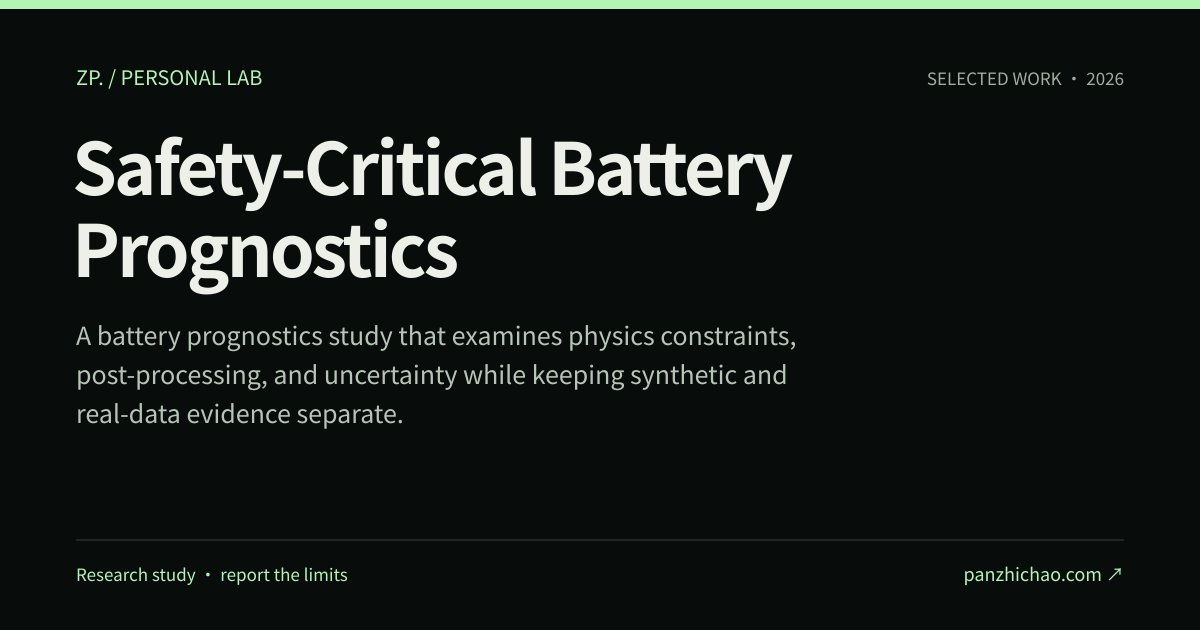
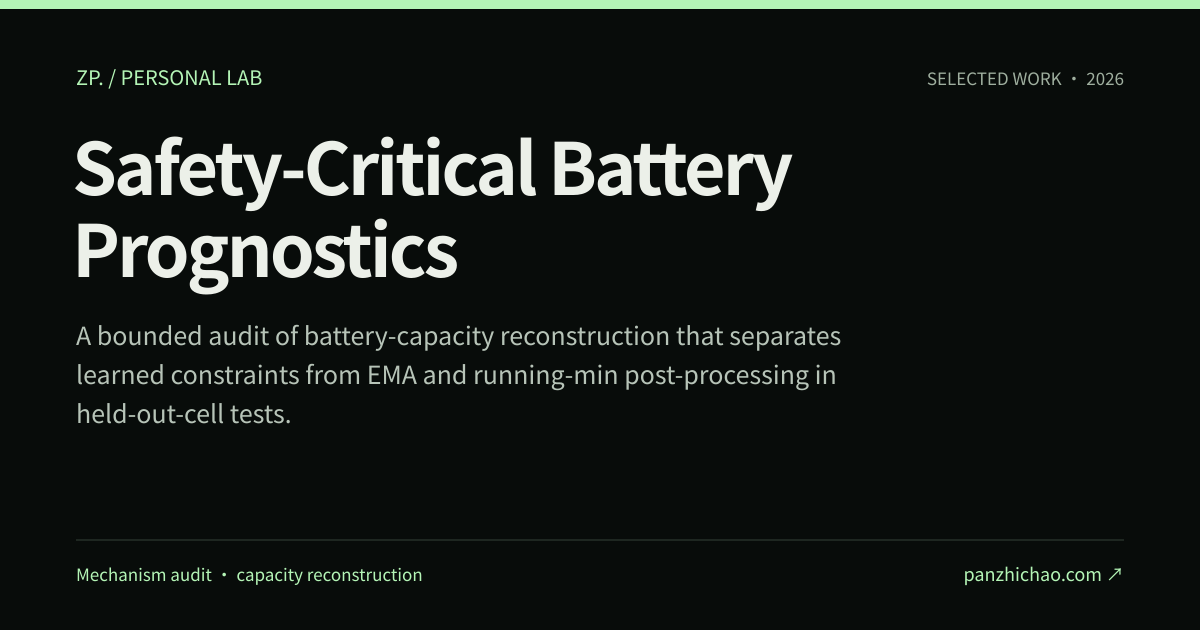
Align battery case with mechanism audit

Changed region(s): [[0.0617, 0.5127, 0.7092, 0.6937], [0.0617, 0.9048, 0.37, 0.9349]]

diff --git a/docs/content-evidence.md b/docs/content-evidence.md
@@ -1,6 +1,6 @@
 # Portfolio content evidence
 
-Content review date: **2026-09-12**. Canonical content: `data/portfolio.json`.
+Content review date: **2026-09-23**. Canonical content: `data/portfolio.json`.
 
 This ledger records the evidence used to rewrite the portfolio. It is an editorial record, not a fresh certification of every project or hosted deployment. Public repositories, their documentation, and specified existing CI runs were inspected. No paid model call, new benchmark run, private project inspection, or production mutation was performed for this content pass.
 
@@ -23,7 +23,7 @@ This ledger records the evidence used to rewrite the portfolio. It is an editori
 | AI CLI Orchestrator        | Explicit worker/profile/route selection, capabilities, reviewed adapters, native authentication, bounded execution, structured results, controlled retry after writes, installer lifecycle.                                                                                                   | [README](https://github.com/Zhi-Chao-PAN/ai-cli-orchestrator), [security policy](https://github.com/Zhi-Chao-PAN/ai-cli-orchestrator/blob/main/SECURITY.md), [v0.3 contract](https://github.com/Zhi-Chao-PAN/ai-cli-orchestrator/blob/main/docs/specs/v0.3-generic-orchestration.md), [regression suite](https://github.com/Zhi-Chao-PAN/ai-cli-orchestrator/blob/main/tests/ai-workers.tests.ps1), [installer suite](https://github.com/Zhi-Chao-PAN/ai-cli-orchestrator/blob/main/tests/install-lifecycle.tests.ps1).                                                                                | Windows only. Local binaries and native profiles remain trusted. It is not a malicious-program sandbox or an arbitrary command runner. MiniMax has no reviewed workspace read/write capability in v0.3. Existing CI does not prove current upstream authentication or compatibility.                                                                                                                                                                                                            |
 | Model Eval Studio          | Guided screenshot/artifact review, configurable criteria, report versions, human revisions, controlled sharing, exports.                                                                                                                                                                      | [README](https://github.com/Zhi-Chao-PAN/model-eval-studio), [task access layer](https://github.com/Zhi-Chao-PAN/model-eval-studio/blob/main/src/lib/task-access.ts).                                                                                                                                                                                                                                                                                                                                                                                                                                  | The hosted workspace requires invited access; model use requires configuration. AI analysis remains reviewable output. The old portfolio's Pareto frontier and generalized cost-per-quality claims are not retained.                                                                                                                                                                                                                                                                            |
 | Structure-Aware RAG        | Plain-text versus Markdown-oriented parsing; financial-table failure analysis; retrieval, arithmetic, and semantic failure categories.                                                                                                                                                        | [README](https://github.com/Zhi-Chao-PAN/structure-aware-rag-empirical), [technical report](https://github.com/Zhi-Chao-PAN/structure-aware-rag-empirical/blob/main/report/README.md).                                                                                                                                                                                                                                                                                                                                                                                                                 | The report describes a 30-question set but its aggregate table uses 4/8 and 5.5/8, with partial credit. The larger design and scored subset cannot be conflated. No headline percentage is promoted here. The report is preliminary and single-document; no statistical-significance, full-locality, peer-review, DOI, or arXiv claim is made. The unrelated arXiv reference and unverified DOI were removed in the accompanying RAG documentation correction. |
-| Battery Prognostics        | Matched post-processing; separation of synthetic, same-cell, held-out-cell, and corruption evidence; explicit negative result.                                                                                                                                                                | [current README](https://github.com/Zhi-Chao-PAN/safety-critical-battery-prognostics), [claim-evidence matrix](https://github.com/Zhi-Chao-PAN/safety-critical-battery-prognostics/blob/main/docs/claim_evidence_matrix.md), [stress report](https://github.com/Zhi-Chao-PAN/safety-critical-battery-prognostics/blob/main/robustness_results/real_data_stress_suite_report.md).                                                                                                                                                                                                                       | Current reports say both PINN and LSTM remain monotone with identical post-processing, while PINN has worse RMSE. Corruption seeds vary, but training seed is fixed. Synthetic physical-violation results are not real-world safety guarantees. No functional-safety certification or model-specific real-data superiority. Archive-era reports are not the authority.                                                                                                                          |
+| Battery Prognostics        | Capacity-reconstruction mechanism audit; matched constraint-on/off initialization; held-out-cell evaluation; raw, EMA, and running-min stages; LSTM and no-training baselines; explicit negative result.                                                                                                                                                                | Frozen public [source snapshot](https://github.com/Zhi-Chao-PAN/safety-critical-battery-prognostics/tree/bf53f86805ed1637b5ad1dc3d014976be71415b8), [post-processing implementation](https://github.com/Zhi-Chao-PAN/safety-critical-battery-prognostics/blob/bf53f86805ed1637b5ad1dc3d014976be71415b8/src/evaluation/real_data_validation.py#L184-L207), [six CSV snapshots](https://github.com/Zhi-Chao-PAN/safety-critical-battery-prognostics/tree/bf53f86805ed1637b5ad1dc3d014976be71415b8/data/calce), and the 2026-09-23 application mechanism-audit artifact. | The audit found that running-min itself produced zero upward-step violations for every evaluated method; constraint-on did not show a stable benefit over constraint-off, and noisy input plus EMA was the strongest reconstruction baseline. This is observed-capacity reconstruction/denoising, not future-capacity or RUL prediction. It does not establish functional safety, deployed performance, the cause of large rises in the snapshots, or a general verdict on PINNs. Earlier repository reports were not treated as authority for these claims. |
 | LaunchLens Research Studio | Specialist research followed by synthesis, visible progress, partial results, source/confidence fields, structured exports and LaunchLens brief handoff.                                                                                                                                      | [README on master](https://github.com/Zhi-Chao-PAN/launchlens-research-studio/blob/master/README.md), [architecture](https://github.com/Zhi-Chao-PAN/launchlens-research-studio/blob/master/docs/ARCHITECTURE.md).                                                                                                                                                                                                                                                                                                                                                                                     | Five research workers run before synthesis; avoid describing six concurrent researchers. Fixed output, live provider research, and durable Deep are distinct. No latency or quality improvement is inferred from parallel execution. Deep readiness needs current operational evidence and is not asserted here.                                                                                                                                                                                |
 | Codex ZCode Remote Relay   | Bounded work orders, ownership, ledgers, result collection, coordinating-agent acceptance.                                                                                                                                                                                                    | [README](https://github.com/Zhi-Chao-PAN/codex-zcode-remote-relay).                                                                                                                                                                                                                                                                                                                                                                                                                                                                                                                                    | An undocumented local remote-control adapter, not official ZCode integration. No guaranteed token cap, rollback, filesystem sandbox, sub-1k-line implementation, unlimited horizontal scaling, production readiness, or measured cost saving is claimed. AIW is a related design comparison, not an asserted replacement.                                                                                                                                                                       |
 | LangGraph Financial Swarm  | Supervisor, researcher and chart-generation responsibilities in a graph-and-tools prototype.                                                                                                                                                                                                  | [README](https://github.com/Zhi-Chao-PAN/LangGraph-Financial-Swarm), [agent modules](https://github.com/Zhi-Chao-PAN/LangGraph-Financial-Swarm/tree/main/src/agents).                                                                                                                                                                                                                                                                                                                                                                                                                                  | Do not repeat the old site's five-specialist story. README performance headlines, an unrelated arXiv reference and an unverified DOI (removed in the Financial Swarm README correction), compliance claims, and unconditional local-data guarantees are excluded.                                                                                                                                                                                                               |
@@ -46,3 +46,5 @@ Review visible copy and generated metadata for unsupported performance, safety, 
 On 2026-09-12, all **30 unique evidence URLs in `portfolio.json`** returned HTTP 200 to read-only requests. The JSON passed checks for the exact interface, 13 unique case-sensitive slugs, 9 repository links, 3 hosted links, 3 flagship / 3 selected / 7 archive entries, complete bilingual fields, matching decision counts, and resolvable related-case slugs. HTTP status is link-availability evidence only; it does not prove model-backed or authenticated functionality.
 
 RAG clarification: the public bank contains 30 questions (20 Lookup / 10 Cross-Column); the historical aggregate covers 8 scored items with partial credit. The original per-question CSV is absent. Automated scoring does not implement the historical report’s manual ±1% rule.
+
+Battery clarification (2026-09-23): the new mechanism audit supersedes the earlier portfolio summary of the repository's own stress reports. It covers a fixed public source/data snapshot and a separate local audit artifact. Public links expose the inherited implementation and inputs; they do not by themselves publish the audit's saved predictions or confer independent certification.
